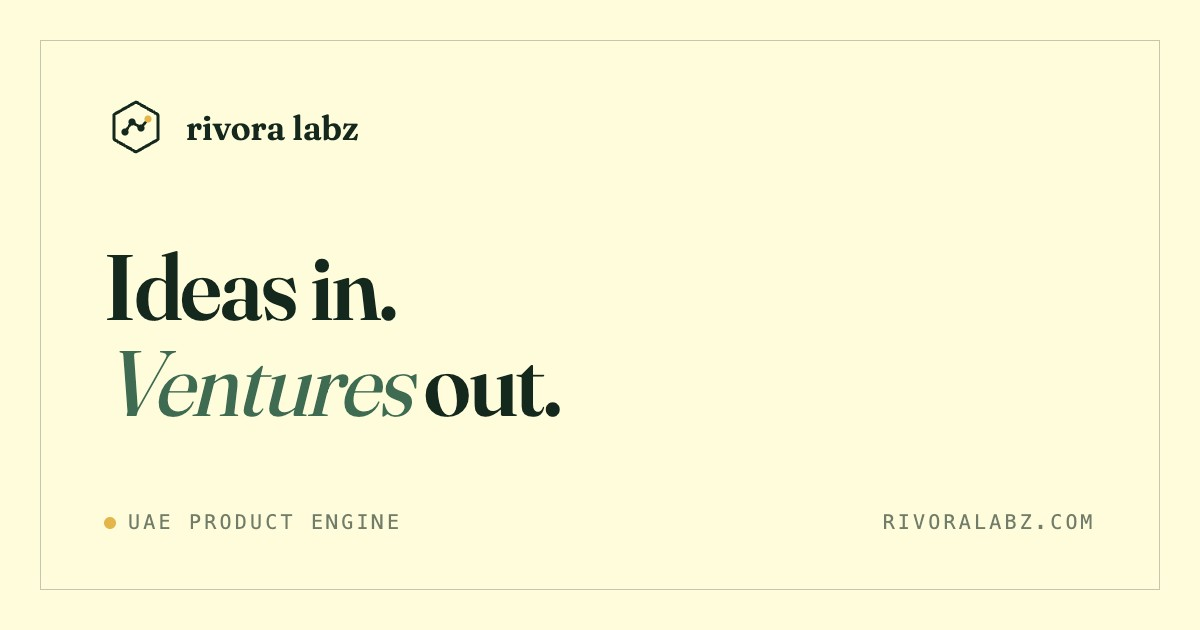
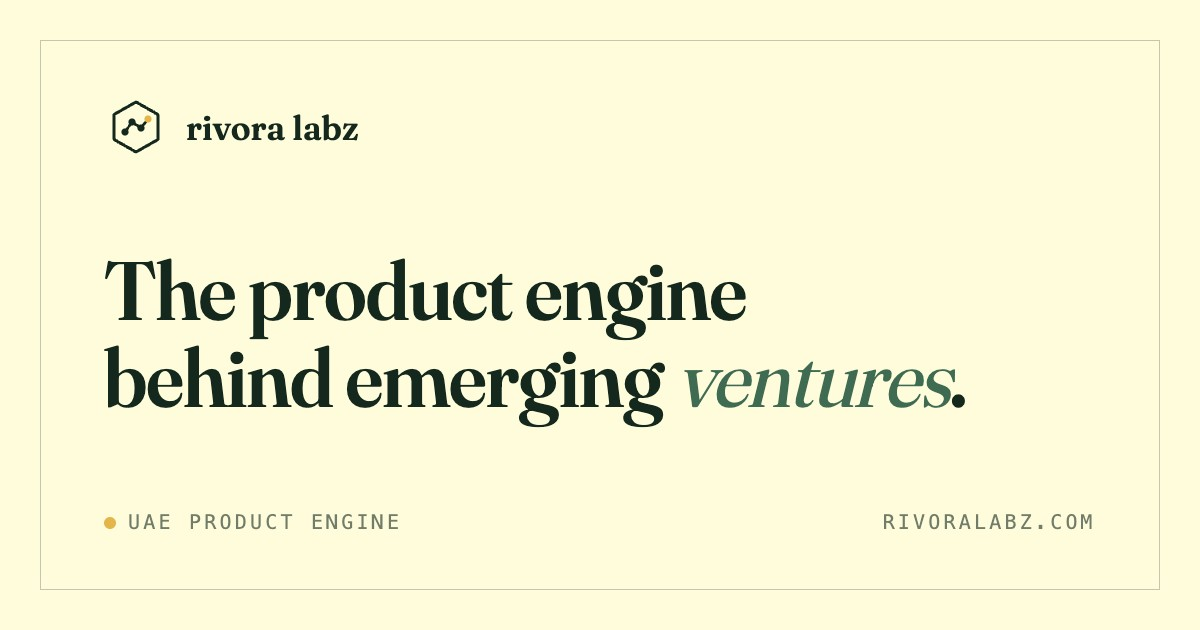
feat: full-width product engine hero with declarative headline
Hero restructured: statement headline across the container, lede and
CTAs in a two-column row, and the Product Engine diagram promoted to
a full-width centerpiece (~2x previous size). Headline is now 'The
product engine behind emerging ventures.' with matching social
metadata and regenerated share image.

Changed region(s): [[0.0925, 0.3921, 0.8017, 0.6937]]

diff --git a/index.html b/index.html
@@ -14,11 +14,11 @@
   <meta property="og:url" content="https://rivoralabz.com/">
   <meta property="og:site_name" content="Rivora Labz">
   <meta property="og:title" content="Rivora Labz | The product engine behind emerging ventures">
-  <meta property="og:description" content="Ideas in. Ventures out. A founder-led product engine in the UAE, taking products from written thesis to public release.">
+  <meta property="og:description" content="The product engine behind emerging ventures. A founder-led technology company in the UAE, taking products from written thesis to public release.">
   <meta property="og:image" content="https://rivoralabz.com/og-image.jpg">
   <meta name="twitter:card" content="summary_large_image">
   <meta name="twitter:title" content="Rivora Labz | The product engine behind emerging ventures">
-  <meta name="twitter:description" content="Ideas in. Ventures out. A founder-led product engine in the UAE.">
+  <meta name="twitter:description" content="The product engine behind emerging ventures. Founder-led, UAE-born.">
   <meta name="twitter:image" content="https://rivoralabz.com/og-image.jpg">
 
   <link rel="icon" type="image/svg+xml" href="/assets/img/favicon.svg">
@@ -89,22 +89,24 @@
 
     <!-- Hero -->
     <header class="hero">
-      <div class="container hero-grid">
-        <div>
-          <p class="eyebrow">Rivora Labz · UAE product engine</p>
-          <h1>Ideas in.<br><em>Ventures</em> out.</h1>
-          <p class="lede">Rivora Labz is a founder-led product engine in the UAE, building its own ventures and selected products for ambitious partners. Every product rides the same rails: written hypothesis, working prototype, engineered system, public release.</p>
-          <div class="hero-actions">
-            <a class="btn btn-primary" href="/contact/">Start a product conversation
-              <svg class="icon" width="18" height="18" viewBox="0 0 24 24" fill="none" stroke="currentColor" stroke-width="2" stroke-linecap="round" stroke-linejoin="round" aria-hidden="true"><path d="M5 12h14M13 6l6 6-6 6"/></svg>
-            </a>
-            <a class="btn btn-ghost" href="/ventures/">Explore the ventures</a>
+      <div class="container">
+        <p class="eyebrow">Rivora Labz · UAE product engine</p>
+        <h1>The product engine behind<br>emerging <em>ventures</em>.</h1>
+        <div class="hero-sub">
+          <p class="lede">Rivora Labz is a founder-led technology company in the UAE, building its own ventures and selected products for ambitious partners. Every product rides the same rails: written hypothesis, working prototype, engineered system, public release.</p>
+          <div>
+            <div class="hero-actions">
+              <a class="btn btn-primary" href="/contact/">Start a product conversation
+                <svg class="icon" width="18" height="18" viewBox="0 0 24 24" fill="none" stroke="currentColor" stroke-width="2" stroke-linecap="round" stroke-linejoin="round" aria-hidden="true"><path d="M5 12h14M13 6l6 6-6 6"/></svg>
+              </a>
+              <a class="btn btn-ghost" href="/ventures/">Explore the ventures</a>
+            </div>
+            <p class="hero-meta">
+              <span><span class="dot" aria-hidden="true"></span>Snook A Look live in Dubai</span>
+              <span><span class="dot" aria-hidden="true"></span>Two ventures in build</span>
+              <span><span class="dot" aria-hidden="true"></span>UAE-born, globally minded</span>
+            </p>
           </div>
-          <p class="hero-meta">
-            <span><span class="dot" aria-hidden="true"></span>Snook A Look live in Dubai</span>
-            <span><span class="dot" aria-hidden="true"></span>Two ventures in build</span>
-            <span><span class="dot" aria-hidden="true"></span>UAE-born, globally minded</span>
-          </p>
         </div>
 
         <!-- The Rivora Product Engine -->

diff --git a/assets/css/main.css b/assets/css/main.css
@@ -62,7 +62,7 @@
   --font-body: "Inter", system-ui, -apple-system, "Segoe UI", sans-serif;
   --font-mono: ui-monospace, "SF Mono", "JetBrains Mono", Menlo, monospace;
 
-  --size-display: clamp(2.9rem, 6.5vw, 5.2rem);
+  --size-display: clamp(2.9rem, 7vw, 5.9rem);
   --size-h2: clamp(2rem, 4.2vw, 3.3rem);
   --size-h3: clamp(1.35rem, 2vw, 1.65rem);
   --size-body: 1.0625rem;
@@ -419,14 +419,20 @@ a { color: inherit; }
 /* ---------- Hero ---------- */
 .hero { padding-block: clamp(4rem, 9vw, 7.5rem) clamp(3.5rem, 7vw, 6rem); position: relative; overflow: hidden; }
 
-.hero-grid {
+.hero-sub {
   display: grid;
-  gap: clamp(2.5rem, 6vw, 4rem);
-  align-items: center;
+  gap: 2rem clamp(2.5rem, 6vw, 5rem);
+  margin-top: 1.5rem;
 }
 @media (min-width: 1000px) {
-  .hero-grid { grid-template-columns: 0.95fr 1.05fr; }
-  .engine-wrap { margin-right: calc(var(--gutter) * -0.75); }
+  .hero-sub { grid-template-columns: 1.1fr 0.9fr; align-items: start; }
+  .hero-sub .hero-actions { margin-top: 0.35rem; }
+}
+
+.hero .engine-wrap {
+  margin-top: clamp(3rem, 7vw, 5.5rem);
+  max-width: 1120px;
+  margin-inline: auto;
 }
 
 .hero h1 em {
@@ -443,7 +449,7 @@ a { color: inherit; }
 }
 
 .hero-meta {
-  margin-top: 2.75rem;
+  margin-top: 1.75rem;
   display: flex;
   flex-wrap: wrap;
   gap: 0.6rem 1.75rem;
